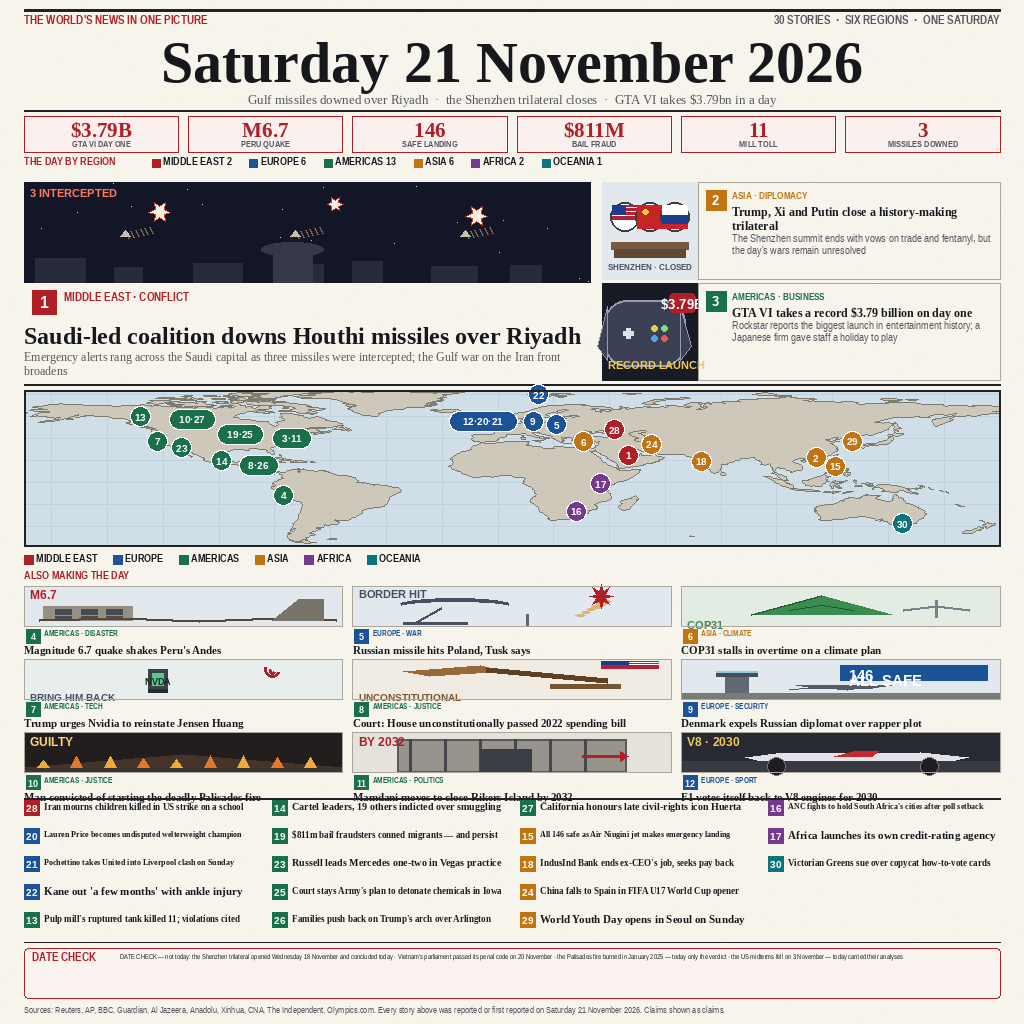
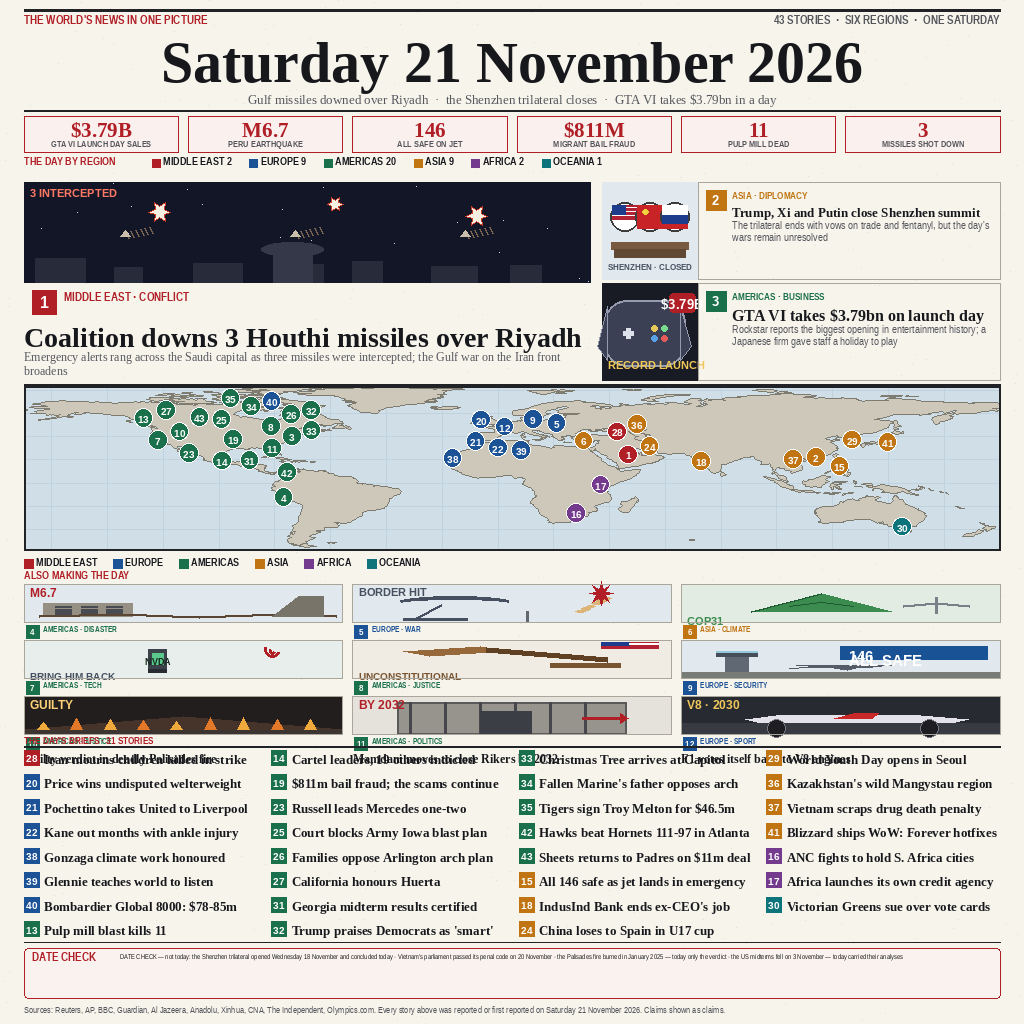
improve r2: 40+ stories, legible grid, clean map pins, precise stats

diff --git a/main.ts b/main.ts
@@ -1,11 +1,32 @@
-// make.fun news-image-20261121
-// Entry title: Saturday 21 November 2026: 30 stories, six regions
+// make.fun news-image-20261121 — round-2 entry
+// Entry title: Saturday 21 November 2026: 40+ stories, six regions
+//
+// This entrypoint publishes the frozen front page for the make.fun
+// news-image-20261121 competition. The round-2 page ("THE WORLD'S NEWS IN ONE
+// PICTURE", Saturday 21 November 2026) is a broadsheet with a masthead date,
+// a six-metric strip (each a big number plus a plain label), a schematic world
+// map whose numbered pins match the 43 briefs one-for-one, three illustrated
+// leads, nine illustrated cards, 31 single-line regional briefs, and a
+// DATE CHECK box naming what did NOT happen on the day.
+//
+// Behavior: copy the pre-rendered entry.png into the output directory.
+//   - MAKEFUN_OUTPUT_DIR overrides the destination directory (default /output)
+//   - refuses to publish an empty (0-byte) entry
+//   - refuses to publish an entry above the 1048576-byte size limit
+//   - prints a confirmation line on success
 import { copyFileSync, statSync } from "node:fs";
 import { join } from "node:path";
+
 const entry = new URL("./entry.png", import.meta.url);
 const size = statSync(entry).size;
-if (size === 0) throw new Error("entry.png is empty (0 bytes), refusing to publish a blank entry");
-if (size > 1048576) throw new Error(`entry.png is ${size} bytes, exceeding the 1048576 byte size limit`);
+
+if (size === 0) {
+  throw new Error("entry.png is empty (0 bytes): no news page to publish, aborting before writing to disk");
+}
+if (size > 1048576) {
+  throw new Error(`entry.png is ${size} bytes, exceeding the 1048576 byte limit for the competition`);
+}
+
 const outDir = process.env.MAKEFUN_OUTPUT_DIR ?? "/output";
 const dest = join(outDir, "entry.png");
 copyFileSync(entry, dest);
